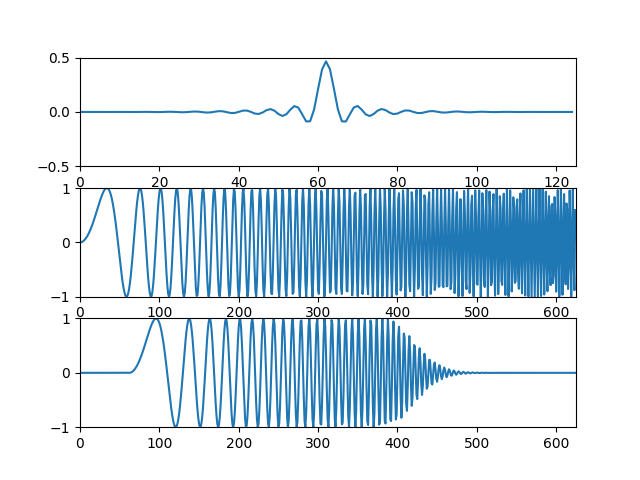
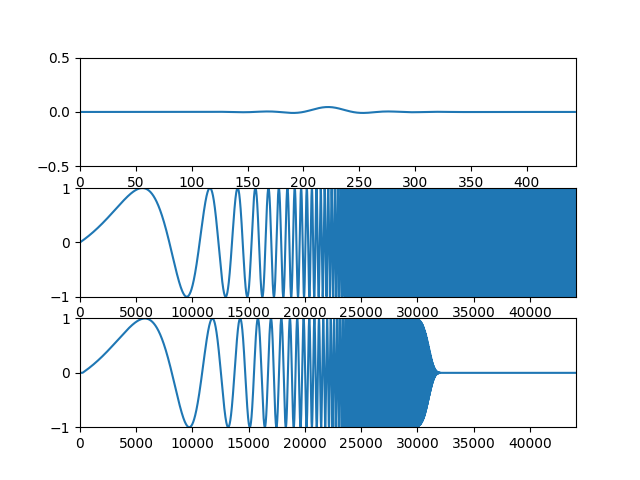
Add files via upload

Changed region(s): [[0.125, 0.3438, 0.9062, 0.9375], [0.2812, 0.125, 0.7188, 0.25], [0.125, 0.7188, 0.2188, 0.7812]]

diff --git a/SimpleFilterDesign/FIR_LowPass.py b/SimpleFilterDesign/FIR_LowPass.py
@@ -1,5 +1,5 @@
 import importlib
-from cmath import cos, pi, sin
+from cmath import cos, exp, log, log10, pi, sin
 import matplotlib.pyplot as mplt
 
 ##################### ##################### #####################
@@ -10,9 +10,9 @@ TWOPI = 2.0 * pi
 fs = 44100.0
 dt = 1.0 / fs
 
-BW = 0.032
+BW = 0.009
 
-fc = 7000.0
+fc = 1000.0
 fc /= fs
 wc = TWOPI * fc
 
@@ -43,7 +43,7 @@ for n in range(1, max):
         h[n] = sin(TWOPI * fc * (n - hm)) / (pi * (n - hm))
         h[n] *= w[n] 
 
-        sum += h[n]
+    sum += h[n]
 
 for s in range(1, max):
     h[s] /= sum
@@ -51,23 +51,25 @@ for s in range(1, max):
 ##################### ##################### #####################
 ##################### ##################### #####################
 
-startFrequency = 0.0
-endFrequency = 6024
-
-simulationLength = int( max * 5.0 )
-rateOfChange = (endFrequency - startFrequency) / simulationLength
+numberOfSeconds = 1
+simulationLength = int( numberOfSeconds * fs )
 
 sineSweepData = [0.0] * simulationLength
 
+startFrequency = 1.0
+endFrequency = 20000.0
+
+T = numberOfSeconds
+tempOne = TWOPI * startFrequency * T
+tempTwo = TWOPI * endFrequency * T
+tempThree = log( tempTwo / tempOne )
+tempFour = tempOne / tempThree
+
 time = 0.0
-currentFreq = 0.0
-for i in range( simulationLength ):
- 
-    sineSweepData[ i ] = sin( TWOPI * currentFreq * time )
-    currentFreq += rateOfChange
+for i in range( 0, simulationLength ):
+    sineSweepData[ i ] = sin( tempFour * (exp((time / T) * tempThree) - 1.0) )
     time += dt
 
-print(currentFreq)
 
 ##################### ##################### #####################
 ##################### ##################### #####################
